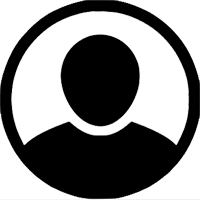
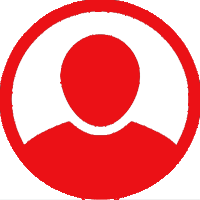
update

diff --git a/Contact.html b/Contact.html
@@ -1,8 +1,8 @@
 <!DOCTYPE html>
 <html lang="en">
 <head>
-    <script src="ASSET/WEB-SOFTWARE/JS/DEV-TOOL-PROTECTION-1q.js"></script>
-    <script src="ASSET/WEB-SOFTWARE/JS/DEV-TOOL-PROTECTION-2q.js"></script>
+    <script src="ASSET/WEB-SOFTWARE/JS/DEV-TOOL-PROTECTION-1.js"></script>
+    <script src="ASSET/WEB-SOFTWARE/JS/DEV-TOOL-PROTECTION-2.js"></script>
     <meta charset="UTF-8">
     <meta name="viewport" content="width=device-width, initial-scale=1.0">
     <link rel="icon" type="image/png" href="ASSET/MAIN/IMG/LOGO/RX-3.png">
